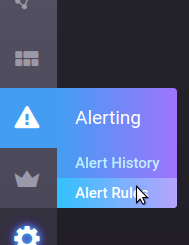
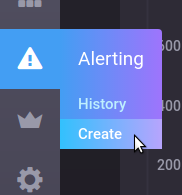
updated screenshots from newer chronograf

diff --git a/content/kapacitor/v1.4/working/kapa-and-chrono.md b/content/kapacitor/v1.4/working/kapa-and-chrono.md
@@ -113,7 +113,7 @@ More refined alerts and other tasks need to be defined directly in Kapacitor.
 #### To create a basic static threshold alert based on the CPU measurements provided by Telegraf:
 
 1. Open the Alert rules tab by clicking on the **Alerting** icon in the left
-navigation bar and then on **Alert Rules** in the pop up menu. A table of alert
+navigation bar and then on **Create** in the pop up menu. A table of alert
 rules (Kapacitor tasks) will load. These are queried from Kapacitor.  
 <br/><br/><img src="/img/kapacitor/chrono/CreateAlert01.png" alt="conifguration-open" style="max-width: 189px;" />
 1. Click on the **Create Rule** button. The Create/Edit rule page will load.
@@ -248,7 +248,7 @@ Chronograf Alerts are made visible in the Alert History page.
 To view the page.
 
 1. Click on the **Alerts** Icon in the left navigation bar. A menu will pop up.
-1. In the pop-up menu select the item **Alert History**.
+1. In the pop-up menu select the item **History**.
 <br/><br/><img src="/img/kapacitor/chrono/ViewAlertHistory01.png" alt="delete screenshot" style="max-width: 197px;" />
 1. The _Alert History_ page will load with a table showing the alerts posted
 within the time frame defined by the drop-down filter in the top right corner of
@@ -451,5 +451,3 @@ Also presented was how to enable Kapacitor tasks to write alerts to the
 `chronograf` database in InfluxDB, so that they will be visible in the
 _Alert History_ of Chronograf.  By adding Chronograf variables to a _simple_
 alert TICKscript, the task will be editable in Chronograf.
-
-
